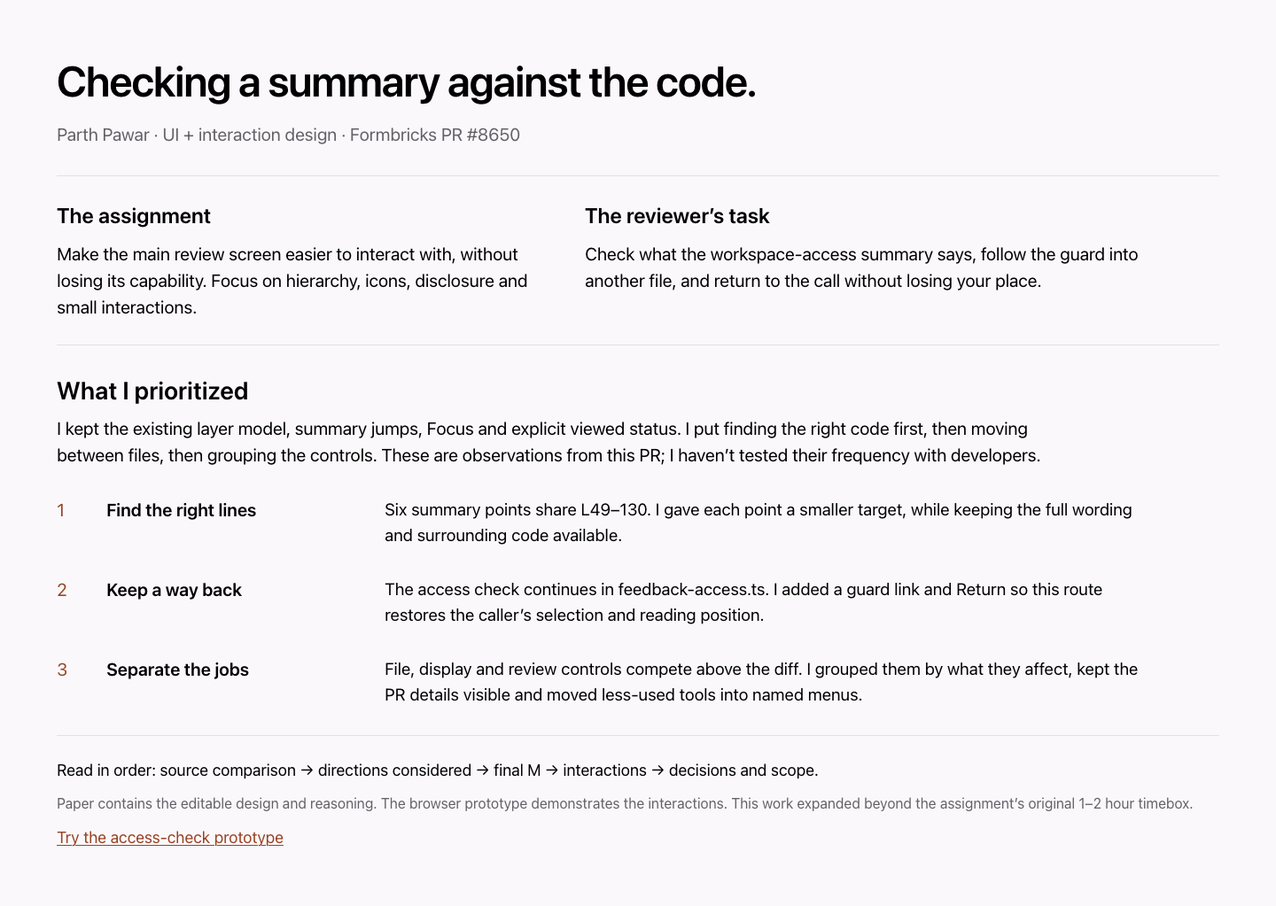
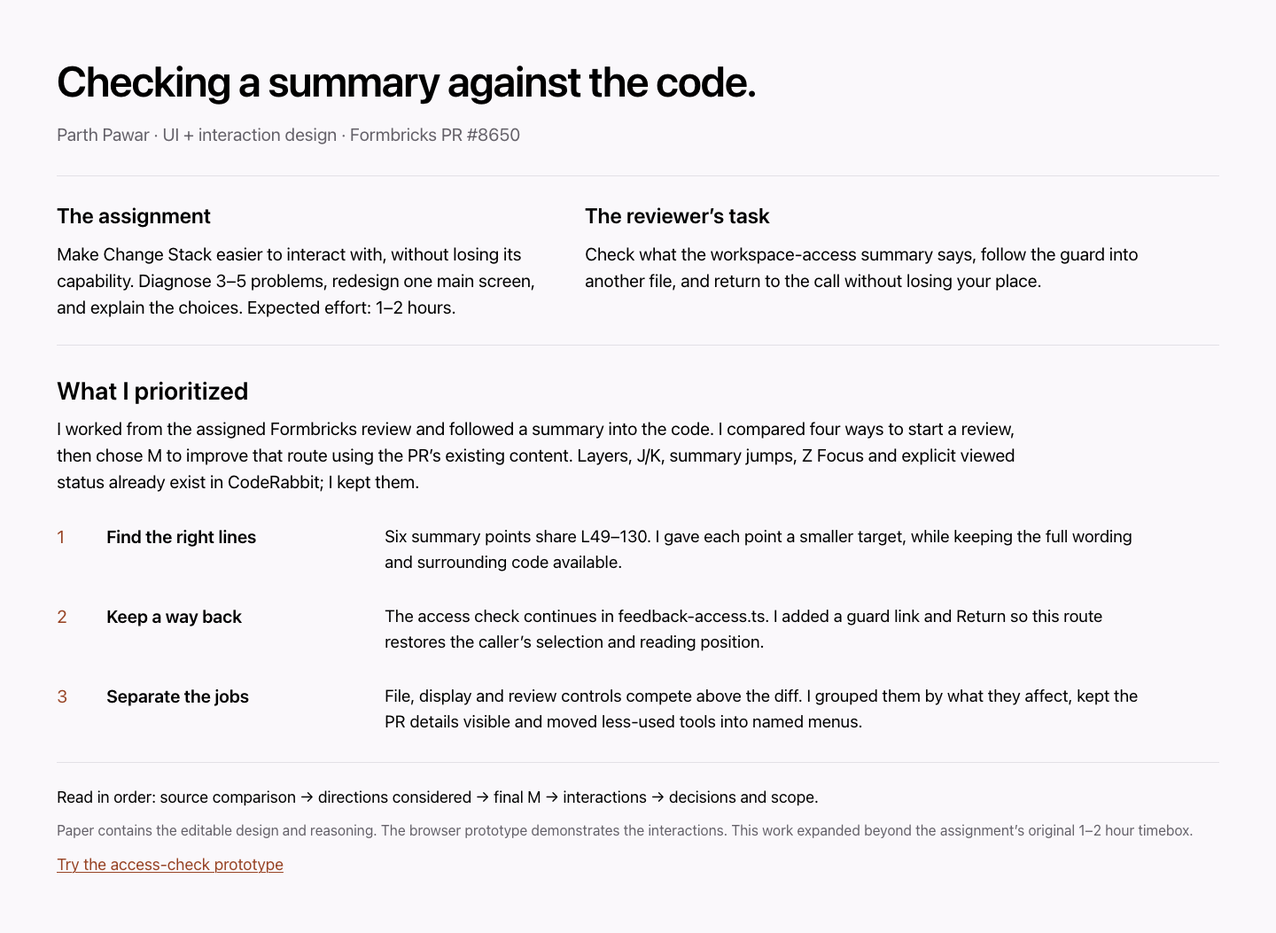
Align submission claims and walkthrough with the assignment brief

diff --git a/dist/comparison.html b/dist/comparison.html
@@ -2,12 +2,12 @@
 <html lang="en"><head><meta charset="utf-8"><meta name="viewport" content="width=device-width,initial-scale=1"><meta name="robots" content="noindex,nofollow"><title>Check the summary against the code · Parth Pawar</title><link rel="stylesheet" href="styles.css?v=compact-review-20261023"><link rel="stylesheet" href="brand.css?v=compact-review-20261023"><link rel="stylesheet" href="presentation.css?v=20261023-polish"></head>
 <body><header class="presentation-header"><a href="comparison.html" aria-current="page">Parth Pawar · CodeRabbit design exercise</a><nav aria-label="Submission links"><a href="index.html?task=access-check">Prototype</a><a href="https://app.paper.design/file/01M5MWMDHE2E77VV689SCNHGV7/p-1-0/5FN-0" target="_blank" rel="noopener">Paper <span>(sign-in)</span></a><a href="rationale.pdf">Rationale</a></nav></header>
 <nav class="case-nav" aria-label="Presentation sections"><a href="#brief">Brief</a><a href="#comparison-title">Comparison</a><a href="#directions">Directions</a><a href="#review-task">Try it</a><a href="#scope">Scope</a></nav><main><section class="opening" id="brief"><h1>Checking a summary against the code.</h1><p class="byline">Parth Pawar · UI + interaction design · Formbricks #8650 · M is final</p><p>The brief was to make Change Stack easier to interact with, without losing its capability. I kept layers and worked through one review task: check the workspace-access summary, follow the guard, then get back to the call.</p><div class="opening-actions"><a class="primary task-link" href="index.html?task=access-check">Try the access check <span aria-hidden="true">→</span></a><a href="#comparison-title">See the original and M</a></div><p class="scope-note">Desktop prototype · 7 of 52 diffs · pinned commit 23cdac2 · manually mapped links</p></section>
-<section class="priorities" aria-labelledby="priorities-title"><h2 id="priorities-title">What I prioritized</h2><p class="section-intro">The source already has summary jumps, Focus and explicit viewed status. I put finding the right code first, then moving between files, then grouping the controls.</p><ol><li><h3>Find the right lines</h3><p>Six summary points share L49–130. I can reach the function, but I still have to find which lines support each point.</p></li><li><h3>Keep a way back</h3><p>The access check continues in another file. I wanted to inspect the guard and return to the same call and selection.</p></li><li><h3>Separate the jobs</h3><p>File, display and review controls compete above the diff. I grouped them by what they affect.</p></li></ol><p class="scope-note">These are observations from this PR. I haven’t tested how often they get in a developer’s way.</p></section>
+<section class="priorities" aria-labelledby="priorities-title"><h2 id="priorities-title">What I prioritized</h2><p class="section-intro">I worked from the assigned Formbricks review and followed a summary into the code. I compared four ways to start a review, then chose M to improve that route using the PR’s existing content. Layers, J/K, summary jumps, Z Focus and explicit viewed status already exist in CodeRabbit; I kept them.</p><ol><li><h3>Find the right lines</h3><p>Six summary points share L49–130. I can reach the function, but I still have to find which lines support each point.</p></li><li><h3>Keep a way back</h3><p>The access check continues in another file. I wanted to inspect the guard and return to the same call and selection.</p></li><li><h3>Separate the jobs</h3><p>File, display and review controls compete above the diff. I grouped them by what they affect.</p></li></ol><p class="scope-note">The brief asks for 3–5 diagnoses and one strong screen. These are my three priorities for M. Their frequency and effect on review quality still need developer testing.</p></section>
 <section class="comparison-section" aria-labelledby="comparison-title"><div class="section-heading"><h2 id="comparison-title">Compare the same access call</h2><span>Light · Unified · 1280 × 720</span></div><p class="comparison-intro">Both captures start at line 54 of access.ts, at commit 23cdac2. The original has more code on screen. M gives file navigation and individual summary links more room.</p><div class="controls" role="group" aria-label="Comparison view"><button data-view="before" aria-pressed="true" aria-controls="before after">Original · Unified</button><button data-view="after" aria-pressed="false" aria-controls="before after">M · Unified</button><button id="toggle-observations" aria-pressed="true">Hide observations</button></div>
 <div class="comparison" id="comparison"><figure id="before"><figcaption><strong>Original CodeRabbit</strong><a href="comparison-original-task.png" target="_blank" rel="noopener">Open full size</a></figcaption><div class="comparison-image"><img src="comparison-original-task.png" width="1280" height="720" alt="Original CodeRabbit Unified view: access.ts beginning at line 54, including the access call at 57–65 and the full six-point summary for lines 49–130."><svg class="observation-overlay" viewBox="0 0 1280 720" aria-hidden="true"><path d="M922 357L954 357"/><circle cx="922" cy="357" r="13"/><text x="922" y="362">1</text><path d="M924 106L886 106"/><circle cx="924" cy="106" r="13"/><text x="924" y="111">2</text><path d="M720 34L650 34"/><circle cx="720" cy="34" r="13"/><text x="720" y="39">3</text></svg></div><p class="caption">The expanded summary covers the whole function. The access call is visible within it. This is an unaltered capture from the live review.</p><ol class="observation-notes"><li><strong>Six points, one broad target</strong><span>The shared L49–130 range gets me to the function. I still need to locate the lines behind a particular point.</span></li><li><strong>Actions above the diff</strong><span>File navigation, display and review actions occupy the same area. Their grouping is a design opportunity.</span></li><li><strong>Context worth keeping</strong><span>Merged status, PR number, 52 files, branch and stack identify this review. I kept these details.</span></li></ol></figure><figure id="after" hidden><figcaption><strong>M · Working prototype</strong><a href="comparison-matched.png?v=identity-20261023" target="_blank" rel="noopener">Open full size</a></figcaption><div class="comparison-image"><img src="comparison-matched.png?v=identity-20261023" width="1280" height="720" alt="Working M prototype: access.ts beginning at line 54, with Require workspace access selected and matching lines 57–65 highlighted."><svg class="observation-overlay" viewBox="0 0 1280 720" aria-hidden="true"><path d="M933 338L967 338"/><circle cx="933" cy="338" r="13"/><text x="933" y="343">1</text><path d="M730 229L756 229"/><circle cx="730" cy="229" r="13"/><text x="730" y="234">2</text><path d="M800 20L800 52"/><circle cx="800" cy="20" r="13"/><text x="800" y="25">3</text></svg></div><p class="caption">“Require workspace access” selects lines 57–65. The next action opens the referenced guard. Full summary wording and the whole function remain available.</p><ol class="observation-notes"><li><strong>Each point gets a target</strong><span>A short label opens its smaller range. Full wording and the whole function remain available.</span></li><li><strong>Group related actions</strong><span>Mark viewed stays beside the file; Unified, Split and Focus stay with the code.</span></li><li><strong>Keep the review details</strong><span>PR metadata and icons remain visible. The separate 0/7 count describes only the sample’s files.</span></li></ol></figure></div>
 <details class="comparison-notes"><summary>What differs between these captures?</summary><p>Same PR, commit, file, starting line, theme, display mode and viewport. These are screenshots of both running interfaces. Their spacing and type sizes remain unchanged, so different amounts of surrounding code fit on screen.</p><p>The original shows full summary wording and observed progress. M starts local progress at zero and uses shorter labels, with full wording in a disclosure. M’s submission bar is included. The prototype contains seven added-file diffs; it does not reproduce the original semantic-diff engine.</p><p>The original also supports Split. <a href="reference.png" target="_blank" rel="noopener">See the earlier source capture</a>. It is supporting context, not the baseline for this comparison.</p></details></section>
 <section class="approach-choice" id="directions" aria-labelledby="choice-title"><h2 id="choice-title">I tried four ways into the review.</h2><p>I compared each direction against three needs: get to code quickly, keep the layer model, and work with the information available in this PR.</p><ol><li><div><h3>Start with behavior</h3><p class="approach-flow">Understand the intended change → check the code</p></div><p>This puts the intended change first. I liked that focus, but I’d need reliable intent before using it to guide a review.</p></li><li><div><h3>Start with counterexamples</h3><p class="approach-flow">Choose a case that could fail → inspect the guard</p></div><p>This challenges the summary directly. The cases need to come from real evidence; invented scenarios could send the reviewer in the wrong direction.</p></li><li><div><h3>Start with impact</h3><p class="approach-flow">See affected areas → follow their dependencies</p></div><p>A dependency map could help me choose where to look. I’d need to trust those relationships before making the map the starting point.</p></li><li><div><h3>Start with the author’s handoff</h3><p class="approach-flow">Read the author’s notes → check the open questions</p></div><p>Author notes could explain decisions the diff cannot. But someone has to prepare that handoff before the review can benefit from it.</p></li></ol><h3>I chose M to work within the existing review.</h3><p>M lets the reviewer start with the existing summary and inspect the code immediately. I could keep layers and use this PR’s content without requiring new author input or a reliable dependency map. I built the summary-to-code route.</p><p class="scope-note">These were design explorations. I haven’t run an A/B test with developers. M is my choice for this brief; the next test could change it.</p></section>
-<section class="review-task" id="review-task" aria-labelledby="task-title"><h2 id="task-title">Follow the check, then return.</h2><p>Open the prototype at the access call. Look at what the caller passes to the guard.</p><div class="review-path" role="img" aria-label="Select Require workspace access at lines 57 to 65, inspect feedback-access.ts at lines 27 and 38, then return to the same call"><div><strong>Choose the point</strong><span>access.ts · L57–65</span></div><span class="path-arrow" aria-hidden="true">→</span><div><strong>Inspect the guard</strong><span>feedback-access.ts · L27, L38</span></div><span class="path-arrow" aria-hidden="true">→</span><div><strong>Return to the call</strong><span>Same selection and position</span></div></div><ol><li>Choose <strong>Inspect guard in feedback-access.ts</strong>. Read the workspace check at line 27 and the entitlement check at line 38.</li><li>Choose <strong>Return to access.ts</strong>. The selected point and reading position should return.</li><li>Check that neither file became viewed just by visiting it. Try <strong>Mark viewed</strong>, then <strong>Undo</strong>.</li></ol><p>Explore beyond that route. Keep reading around the highlight; the summary could leave something out.</p><a class="primary task-link" href="index.html?task=access-check">Open the working prototype <span aria-hidden="true">→</span></a></section>
+<section class="review-task" id="review-task" aria-labelledby="task-title"><h2 id="task-title">Follow the check, then return.</h2><p>Open the prototype at the access call. Look at what the caller passes to the guard.</p><div class="review-path" role="img" aria-label="Select Require workspace access at lines 57 to 65, inspect feedback-access.ts at lines 27 and 38, then return to the same call"><div><strong>Choose the point</strong><span>access.ts · L57–65</span></div><span class="path-arrow" aria-hidden="true">→</span><div><strong>Inspect the guard</strong><span>feedback-access.ts · L27, L38</span></div><span class="path-arrow" aria-hidden="true">→</span><div><strong>Return to the call</strong><span>Same selection and position</span></div></div><ol><li>Choose <strong>Inspect guard in feedback-access.ts</strong>. Read the workspace check at line 27 and the entitlement check at line 38.</li><li>Choose <strong>Return to access.ts</strong>. The selected point and reading position should return.</li><li>Check that neither file became viewed just by visiting it. Try <strong>Mark viewed</strong>, then <strong>Undo</strong>.</li></ol><p>Try J/K to change layers and Z for Focus. Other layers show their captured names and counts; their diffs are outside this sample. Keep reading around the highlight; the summary could leave something out.</p><a class="primary task-link" href="index.html?task=access-check">Open the working prototype <span aria-hidden="true">→</span></a></section>
 <section class="presentation-decision" aria-labelledby="tradeoff-title"><h2 id="tradeoff-title">Why I kept one code pane</h2><p>Showing the caller and guard together squeezed both at laptop width, so I chose Return. Keeping files and summaries visible also takes space. Focus gives that space back when I want to read more code.</p><p>I haven’t tested this with developers yet. I’d ask them to explain the access check on both screens, then find something the summary might miss. If smaller highlights lead people to overlook code, I’d change them.</p><div class="closing-links"><a href="rationale.pdf">Read the one-page rationale</a><a href="next.html">Test plan and remaining cases</a></div></section>
-<section class="capability-section" id="scope" aria-labelledby="scope-title"><h2 id="scope-title">What stayed, and what still needs work</h2><p class="section-intro">I kept the main actions close to the code and gave secondary tools named destinations. The prototype demonstrates a limited path through the PR.</p><details><summary>Where each capability lives</summary><div class="table-scroll" role="region" aria-label="Capability destinations" tabindex="0"><table><thead><tr><th scope="col">Capability</th><th scope="col">Where it lives</th><th scope="col">Prototype coverage</th></tr></thead><tbody><tr><th scope="row">Layers and files</th><td>Left rail; previous / next beside the file</td><td>Seven layer names; nine layer-1 paths; seven working diffs. Global Files remains a preview.</td></tr><tr><th scope="row">Summaries and comments</th><td>Right context; file / layer scope</td><td>Captured content, manual code links and local notes. Full source coverage is not implemented.</td></tr><tr><th scope="row">Diff and reading controls</th><td>Code display strip; Tools; Outline</td><td>Unified / Split, Wrap and Focus work. The sample covers added files; semantic diff is outside scope.</td></tr><tr><th scope="row">Review progress</th><td>Mark viewed; Summary options; header</td><td>Viewed and seen stay separate. Undo reverses a viewed mark. Submit is disabled for the merged PR.</td></tr><tr><th scope="row">Overview and impact</th><td>PR overview above the layer list</td><td>Overview and architecture are previews. Blast radius stays unavailable, as observed in the source.</td></tr><tr><th scope="row">History and review tools</th><td>More review tools; About layer</td><td>History, Continue, Follow review and other settings are previews. Diagrams remains unavailable.</td></tr><tr><th scope="row">Search and recovery</th><td>File position opens the file list; About this prototype</td><td>File search covers nine paths. Loading, retry and empty-state demos are separate from the PR.</td></tr></tbody></table></div></details><div class="scope-split"><div><h3>Working in this sample</h3><p>Summary links, the guard and Return, file switching, Focus, viewed progress and Undo. Notes and progress stay in the tab.</p></div><div><h3>Before building it in the product</h3><p>Test with developers, cover modified-file diffs and stale links, and validate the complete review workflow. Manual links and placement previews need real data and integration.</p></div></div><p class="scope-note">The PR is merged, so Submit is disabled. This work grew beyond the brief’s original 1–2 hour timebox. AI tools supported exploration and implementation; no user study or measured time saving is claimed.</p></section></main><footer class="presentation-footer"><span>Independent design exercise · M is final. Four earlier approaches remain explorations.</span><a href="https://github.com/Parthawe/coderabbit-change-stack-review">Source files</a></footer>
+<section class="capability-section" id="scope" aria-labelledby="scope-title"><h2 id="scope-title">What stayed, and what still needs work</h2><p class="section-intro">I kept the main actions close to the code and gave secondary tools named destinations. This accounts for the capabilities in the design; it does not establish full functional parity. The prototype demonstrates a limited path through the PR.</p><details><summary>Where each capability lives</summary><div class="table-scroll" role="region" aria-label="Capability destinations" tabindex="0"><table><thead><tr><th scope="col">Capability</th><th scope="col">Where it lives</th><th scope="col">Prototype coverage</th></tr></thead><tbody><tr><th scope="row">Layers and files</th><td>Left rail; previous / next beside the file</td><td>Seven layer names; nine layer-1 paths; seven working diffs. Global Files remains a preview.</td></tr><tr><th scope="row">Summaries and comments</th><td>Right context; file / layer scope</td><td>Captured content, manual code links and local notes. Full source coverage is not implemented.</td></tr><tr><th scope="row">Diff and reading controls</th><td>Code display strip; Tools; Outline</td><td>Unified / Split, Wrap and Focus work. The sample covers added files; semantic diff is outside scope.</td></tr><tr><th scope="row">Review progress</th><td>Mark viewed; Summary options; header</td><td>Viewed and seen stay separate. Undo reverses a viewed mark. Submit is disabled for the merged PR.</td></tr><tr><th scope="row">Overview and impact</th><td>PR overview above the layer list</td><td>Overview and architecture are previews. Blast radius stays unavailable, as observed in the source.</td></tr><tr><th scope="row">History and review tools</th><td>More review tools; About layer</td><td>History, Continue, Follow review and other settings are previews. Diagrams remains unavailable.</td></tr><tr><th scope="row">Search and recovery</th><td>File position opens the file list; About this prototype</td><td>File search covers nine paths. Loading, retry and empty-state demos are separate from the PR.</td></tr></tbody></table></div></details><div class="scope-split"><div><h3>Working in this sample</h3><p>Summary links, the guard and Return, file switching, Focus, viewed progress and Undo. Notes and progress stay in the tab.</p></div><div><h3>Before building it in the product</h3><p>Test with developers, cover modified-file diffs and stale links, and validate the complete review workflow. Manual links and placement previews need real data and integration.</p></div></div><p class="scope-note">The PR is merged, so Submit is disabled. This work grew beyond the brief’s original 1–2 hour timebox. AI tools supported exploration and implementation; no user study or measured time saving is claimed.</p></section></main><footer class="presentation-footer"><span>Independent design exercise · M is final. Four earlier approaches remain explorations.</span><a href="https://github.com/Parthawe/coderabbit-change-stack-review">Source files</a></footer>
 <script src="presentation.js?v=20261023-polish" defer></script></body></html>

diff --git a/dist/rationale.html b/dist/rationale.html
@@ -1,1 +1,1 @@
-<!doctype html><html lang="en"><head><meta charset="utf-8"><meta name="viewport" content="width=device-width,initial-scale=1"><title>Change Stack — Design rationale</title><link rel="stylesheet" href="styles.css?v=brand-20261019"><style>body{display:block;overflow:auto;height:auto;min-width:0;background:white}article{max-width:850px;margin:64px auto;padding:0 32px 48px}h1{white-space:normal;font-size:32px;line-height:1.2;letter-spacing:-.03em;font-weight:600}h2{font-size:18px;margin:28px 0 12px}p{margin:12px 0;line-height:1.6;color:#65616a}table{border-collapse:collapse;width:100%;font-size:14px;margin:20px 0}th{text-align:left;color:#211f24;font-weight:500;background:#faf8fb}td,th{padding:14px 16px;border-bottom:1px solid #e3e0e7;vertical-align:top}td:first-child{width:36%;font-weight:500;color:#211f24}nav{margin-bottom:24px}.byline{font-size:13px;color:#65616a;margin-top:16px}.small{font-size:12px}@media print{article{margin:0;padding:0}nav{display:none}h1{font-size:24px}body{font-size:12px}table{font-size:11px}td,th{padding:10px}h2{font-size:15px;margin:18px 0 8px}@page{size:A4;margin:18mm}}</style><link rel="stylesheet" href="brand.css?v=brand-20261019"></head><body><article><nav><a href="index.html">Prototype</a> · <a href="https://app.paper.design/file/01M5MWMDHE2E77VV689SCNHGV7/p-1-0/5FN-0">Paper design</a> · <a href="comparison.html">Original and redesign</a> · <a href="rationale.pdf">PDF</a></nav><h1>Checking the summary against the code</h1><p class="byline">CodeRabbit Change Stack · Formbricks #8650 · Parth Pawar</p><p>The brief was to make Change Stack easier to use without losing its capability. I prioritized finding the right lines, keeping a way back and grouping the controls. I explored four directions, chose M because it keeps layers, and worked with this PR’s existing content.</p><table><thead><tr><th>What I noticed</th><th>What I changed</th></tr></thead><tbody><tr><td>Six summary points share L49–130. I still have to find the lines behind each point.</td><td>I gave each point a smaller target. The full wording and surrounding code stay available so I can check beyond the highlight.</td></tr><tr><td>The access check continues in another file.</td><td>Inspect guard opens both checks. Return brings me back to the caller’s selection and reading position. I mapped this route manually.</td></tr><tr><td>File and display actions sit across several controls.</td><td>I put file actions beside the filename and display settings above the code. Less-used tools sit in named menus, which adds a click.</td></tr></tbody></table><h2>Why I kept one code pane</h2><p>Showing the caller and guard together squeezed both at laptop width, so I chose Return. Both comparison screens use Unified. The original fits more code; M gives files and summary links more room. Focus gives that space back.</p><h2>What stays available</h2><p>PR details, icons, layer numbers and file positions remain visible. Visiting a file leaves progress alone; Mark viewed and Undo change it. Secondary tools have named destinations. The presentation’s capability map distinguishes working interactions from previews.</p><h2>What I would test</h2><p>I’d ask developers to explain the access check on both screens, then find something the summary might miss. I’d watch for wrong turns and missed branches. If smaller highlights lead people to overlook code, I’d change them.</p><p class="small">This prototype covers seven of 52 diffs at commit 23cdac2. Links are manually mapped. The PR is merged; Submit is disabled. Semantic diffs and modified-file review are outside this sample. I have not tested it with developers.</p></article></body></html>
+<!doctype html><html lang="en"><head><meta charset="utf-8"><meta name="viewport" content="width=device-width,initial-scale=1"><title>Change Stack — Design rationale</title><link rel="stylesheet" href="styles.css?v=brand-20261019"><style>body{display:block;overflow:auto;height:auto;min-width:0;background:white}article{max-width:850px;margin:64px auto;padding:0 32px 48px}h1{white-space:normal;font-size:32px;line-height:1.2;letter-spacing:-.03em;font-weight:600}h2{font-size:18px;margin:28px 0 12px}p{margin:12px 0;line-height:1.6;color:#65616a}table{border-collapse:collapse;width:100%;font-size:14px;margin:20px 0}th{text-align:left;color:#211f24;font-weight:500;background:#faf8fb}td,th{padding:14px 16px;border-bottom:1px solid #e3e0e7;vertical-align:top}td:first-child{width:36%;font-weight:500;color:#211f24}nav{margin-bottom:24px}.byline{font-size:13px;color:#65616a;margin-top:16px}.small{font-size:12px}@media print{article{margin:0;padding:0}nav{display:none}h1{font-size:24px}body{font-size:12px}table{font-size:11px}td,th{padding:10px}h2{font-size:15px;margin:18px 0 8px}@page{size:A4;margin:18mm}}</style><link rel="stylesheet" href="brand.css?v=brand-20261019"></head><body><article><nav><a href="index.html">Prototype</a> · <a href="https://app.paper.design/file/01M5MWMDHE2E77VV689SCNHGV7/p-1-0/5FN-0">Paper design</a> · <a href="comparison.html">Original and redesign</a> · <a href="rationale.pdf">PDF</a></nav><h1>Checking the summary against the code</h1><p class="byline">CodeRabbit Change Stack · Formbricks #8650 · Parth Pawar</p><p>The brief asks for a clearer review screen without losing capability. I followed a summary into the assigned PR’s code, chose three priorities, and compared four directions. I chose M to improve that route using the existing layers and PR content.</p><table><thead><tr><th>What I noticed</th><th>What I changed</th></tr></thead><tbody><tr><td>Six summary points share L49–130. I still have to find the lines behind each point.</td><td>I gave each point a smaller target. The full wording and surrounding code stay available so I can check beyond the highlight.</td></tr><tr><td>The access check continues in another file.</td><td>Inspect guard opens both checks. Return brings me back to the caller’s selection and reading position. I mapped this route manually.</td></tr><tr><td>File and display actions sit across several controls.</td><td>I put file actions beside the filename and display settings above the code. Less-used tools sit in named menus, which adds a click.</td></tr></tbody></table><h2>Why I kept one code pane</h2><p>Showing the caller and guard together squeezed both at laptop width, so I chose Return. Both comparison screens use Unified. The original fits more code; M gives files and summary links more room. Focus gives that space back.</p><h2>What stays available</h2><p>PR details, icons, layer numbers, J/K and Z Focus remain. Visiting a file leaves progress alone; Mark viewed and Undo change it. Full summary wording and secondary tools have named destinations. The capability map separates working interactions from previews; full functional parity is not implemented.</p><h2>What I would test</h2><p>I’d ask developers to explain the access check on both screens, then find something the summary might miss. I’d watch for wrong turns and missed branches. If smaller highlights lead people to overlook code, I’d change them.</p><p class="small">Seven of 52 diffs at commit 23cdac2; manually mapped links. The PR is merged; Submit is disabled. Semantic diffs and modified-file review are outside this sample. No developer testing. This work exceeded the expected 1–2 hours.</p></article></body></html>

diff --git a/design/clean-submission/11-decisions-and-next-test.jsx b/design/clean-submission/11-decisions-and-next-test.jsx
@@ -5,7 +5,7 @@
           Why I would submit M
         </div>
         <div style={{ boxSizing: 'border-box', color: '#000000', fontFamily: 'system-ui, sans-serif', fontSize: '21px', lineHeight: '31px', width: '1180px' }}>
-          I chose M because it keeps layers and lets me work through one review task in detail. I can show the decisions in the prototype. I still need to see how they hold up with developers.
+          M is the main screen I would submit with the working prototype and one-page rationale. The four explorations support the choice. I built the summary-to-code route; whether it helps developers review better is still untested.
         </div>
       </div>
       <div style={{ borderTopColor: '#E3E0E7', borderTopStyle: 'solid', borderTopWidth: '1px', boxSizing: 'border-box', display: 'flex', gap: '36px', paddingBlock: '20px' }}>
@@ -29,7 +29,7 @@
           Is the same information easier to scan?
         </div>
         <div style={{ boxSizing: 'border-box', color: '#000000', flexShrink: '0', fontFamily: 'system-ui, sans-serif', fontSize: '19px', lineHeight: '29px', width: '930px' }}>
-          I split the summary into six short labels, with the full wording one click away. That makes the points easier to pick out, but it takes space. The comparison uses the same code and viewport so you can see what each layout gives up.
+          Six short labels expose the individual points; the full wording is one click away. I expect this to help reviewers find a point, but it takes space. Both captures use the same code, mode and viewport. The original fits more code; faster scanning is still a hypothesis.
         </div>
       </div>
       <div style={{ borderTopColor: '#E3E0E7', borderTopStyle: 'solid', borderTopWidth: '1px', boxSizing: 'border-box', display: 'flex', gap: '36px', paddingBlock: '20px' }}>
@@ -54,7 +54,7 @@
         </div>
       </div>
       <div style={{ boxSizing: 'border-box', color: '#65616A', fontFamily: 'system-ui, sans-serif', fontSize: '16px', lineHeight: '24px' }}>
-        Scope: seven of 52 diffs, one manually mapped guard route, pinned commit 23cdac2. No developer study. The PR is merged; Submit is disabled. Modified-file review and CodeRabbit’s layer-only semantic diff are outside this sample.
+        Scope: seven of 52 diffs, one manual guard route, commit 23cdac2. Capability destinations are mapped; full functionality is not implemented. No developer study. The PR is merged; Submit is disabled. Modified-file review and semantic diffs are outside this sample.
       </div>
       <div style={{ boxSizing: 'border-box', display: 'flex', gap: '28px' }}>
         <div style={{ boxSizing: 'border-box', color: '#A33C17', display: 'inline-block', fontFamily: 'system-ui, sans-serif', fontSize: '18px', lineHeight: '28px', textDecoration: 'underline 1px', textUnderlinePosition: 'from-font' }}>

diff --git a/design/clean-submission/01-brief-and-priorities.jsx b/design/clean-submission/01-brief-and-priorities.jsx
@@ -14,7 +14,7 @@
             The assignment
           </div>
           <div style={{ boxSizing: 'border-box', color: '#000000', fontFamily: 'system-ui, sans-serif', fontSize: '20px', lineHeight: '30px' }}>
-            Make the main review screen easier to interact with, without losing its capability. Focus on hierarchy, icons, disclosure and small interactions.
+            Make Change Stack easier to interact with, without losing its capability. Diagnose 3–5 problems, redesign one main screen, and explain the choices. Expected effort: 1–2 hours.
           </div>
         </div>
         <div style={{ boxSizing: 'border-box', display: 'flex', flexDirection: 'column', flexShrink: '0', gap: '12px', width: '640px' }}>
@@ -31,7 +31,7 @@
           What I prioritized
         </div>
         <div style={{ boxSizing: 'border-box', color: '#000000', fontFamily: 'system-ui, sans-serif', fontSize: '20px', lineHeight: '30px', width: '1120px' }}>
-          I kept the existing layer model, summary jumps, Focus and explicit viewed status. I put finding the right code first, then moving between files, then grouping the controls. These are observations from this PR; I haven’t tested their frequency with developers.
+          I worked from the assigned Formbricks review and followed a summary into the code. I compared four ways to start a review, then chose M to improve that route using the PR’s existing content. Layers, J/K, summary jumps, Z Focus and explicit viewed status already exist in CodeRabbit; I kept them.
         </div>
       </div>
       <div style={{ alignItems: 'start', boxSizing: 'border-box', display: 'flex', gap: '24px' }}>

diff --git a/docs/brief-alignment.md b/docs/brief-alignment.md
@@ -1,0 +1,42 @@
+# Check against the CodeRabbit brief
+
+October 23, 2026. M remains the final screen. This is a review of the submission against the supplied assignment, not a hiring score or a user study.
+
+## What the assignment asks for
+
+Make the main PR review screen easier to interact with without losing its capability. Work from Formbricks #8650, identify 3–5 problems, and show one strong screen with attention to hierarchy, icons, progressive disclosure and micro-interactions. Deliver a viewable design or prototype and a one-pager or video. Expected effort is 1–2 hours; brand matching and frame volume are not grading criteria.
+
+## What we did and what the evidence supports
+
+| Requirement | Work present | Assessment |
+| --- | --- | --- |
+| Understand the assigned product | Saved live-session capture, accessibility record, PR fixtures and a same-commit comparison; seven layer names and 52-file identity retained | The submission is grounded in the assigned PR. This pass rechecked the saved source evidence and the published prototype, not a fresh complete live-product walkthrough. |
+| Diagnose 3–5 problems | Three priorities: broad summary targets, the cross-file access-check route, and competing file/display/review controls | Specific enough to show on the screen. Their frequency and impact on developers remain untested. The cross-file route is a design opportunity, not proof that the source lacks navigation. |
+| Improve hierarchy and iconography | PR identity, layer numbers, file position, icons, grouped controls and explicit selection | Implemented in M. These choices should be demonstrated on the main screen. Branding is supporting craft, not the argument. |
+| Progressive disclosure | Full source summary wording, About layer, named secondary menus and context overlay | Implemented or explicitly labeled preview. Hiding secondary controls adds a click; it does not remove the underlying need. |
+| Micro-interactions | Summary range selection, guard/Return, viewed/Undo, file switching, J/K and Z | Working in the sample. Source already has summary jumps, viewed status and keyboard shortcuts; credit those existing behaviors. |
+| Same information easier to scan | Original/M comparison uses the same PR, commit, file, starting line, Unified mode, Light theme and viewport | Comparison is inspectable. M uses short labels with full wording behind disclosure, and local progress begins at zero. The original fits more code. Faster scanning is a hypothesis. |
+| Keep capability | Capability map provides destinations for observed tools | Partial implementation: seven diffs and one manual guard route. Other layer detail, semantic diffs and integrations remain outside scope. M does not establish functional parity with the product. |
+| Explain why | Three observations map to changes; four explored entry points explain the choice; one-pane tradeoff and next test are stated | Present. Keep alternatives optional during presentation. No A/B experiment or measured gain occurred. |
+| Deliverables and access | Public browser prototype and one-page PDF; editable Paper as an additional link | Meets the prototype option in the brief. Paper requires sign-in; it is not the only way to view the work. Video is optional. |
+| Timebox | Repeated iterations, multiple explorations and a recording pack | Exceeded the expected 1–2 hours. State this honestly; do not frame the expanded work as a two-hour exercise. |
+
+## How to explain the decision
+
+“I started with the assigned review and followed one summary into the code. Six points led to a broad function range, and the access check continued in another file. I kept the layer model and existing shortcuts, gave each point a smaller code target, and added a way back after inspecting the guard. I also grouped controls by what they affect. M gives those links and files more room, so less code fits. That is the tradeoff I would test with developers.”
+
+## Four judging questions
+
+- **Right problems:** concrete source observations, but no evidence yet that these are the most frequent developer problems.
+- **Visual and interaction polish:** visible grouping, labels, icons and recoverable actions; judge them through the working route.
+- **Scanning:** clearer entry points are the intended benefit. The matched comparison exposes the cost in visible code and disclosure clicks.
+- **Reasoning:** the choice follows from available PR content and preserving layers. Test whether smaller highlights cause missed branches before treating the approach as validated.
+
+## Corrections in this pass
+
+Paper now names the exact deliverable scope, explains the source-to-choice process, and qualifies the scanning claim. The site and rationale use the same boundaries. The walkthrough keeps the four alternatives optional. The original screenshots and main prototype interaction code are unchanged.
+
+Published-prototype checks in this pass: guard/Return restored L57–65 and scrollTop 1576, with viewed progress still 0/7. Z toggled Focus; J selected layer 2 and K returned to layer 1. Other layers explicitly disclose unavailable detail. Earlier verification records cover additional states; this is a bounded regression check.
+
+Before production: test with developers, cover representative modified-file diffs, validate automatic anchors and stale references, and connect real review actions. These are follow-up work, not missing requirements for a one-screen design exercise.
+

diff --git a/docs/submission-walkthrough.md b/docs/submission-walkthrough.md
@@ -4,10 +4,10 @@ Start at https://parthawe.github.io/coderabbit-change-stack-review/comparison.ht
 
 1. State the brief and reviewer task. Explain the three priorities: find the right lines, keep a way back and separate the controls.
 2. Compare Original · Unified and M · Unified. Both show the access call from line 54 at the same viewport. Use the numbered observations; hide them to show the unaltered captures. The original fits more code.
-3. Show the four directions briefly. Explain the selection criteria: get to code quickly, keep layers and use available PR content. M is a design choice, not an A/B-test winner.
+3. If asked about alternatives, show the four directions. Explain the selection criteria: get to code quickly, keep layers and use available PR content. M is a design choice; no A/B test was run.
 4. Choose Try the access check. Require workspace access is selected at L57–65. Show full source wording if needed, then close it.
 5. Choose Inspect guard. The workspace check at L27 and entitlement check at L38 are visible on arrival at 1280 × 720. Read surrounding code, then Return to access.ts.
-6. Use Focus, then exit. Show that visiting files did not change viewed progress. Mark viewed, then Undo. Submit remains disabled because this PR is merged.
+6. Use Z for Focus, then exit. J/K moves between the seven layers; detailed diffs outside layer 1 are not included. Show that visiting files did not change viewed progress. Mark viewed, then Undo. Submit remains disabled because this PR is merged.
 7. End with the tradeoff and next test. Open the capability map only if asked where secondary tools went; it distinguishes working paths, previews and missing integration.
 
 Seven added-file diffs and one guard route are implemented. Links are manually mapped. No developer study or measured improvement is claimed. Paper needs sign-in. The work expanded beyond the assignment timebox; do not claim two-hour completion.
